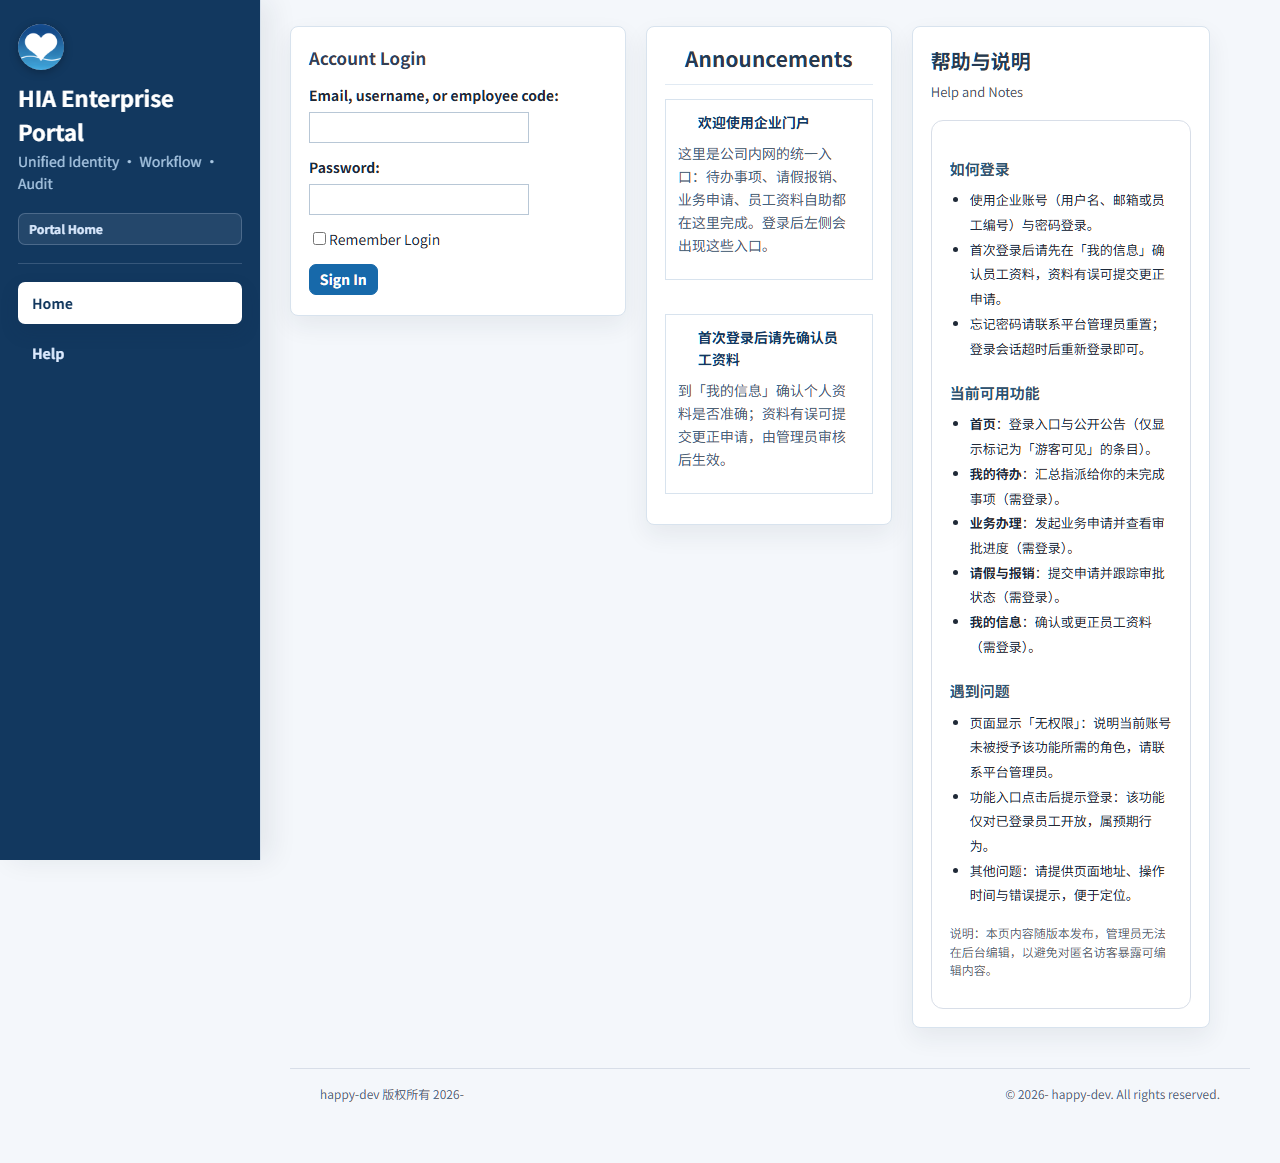
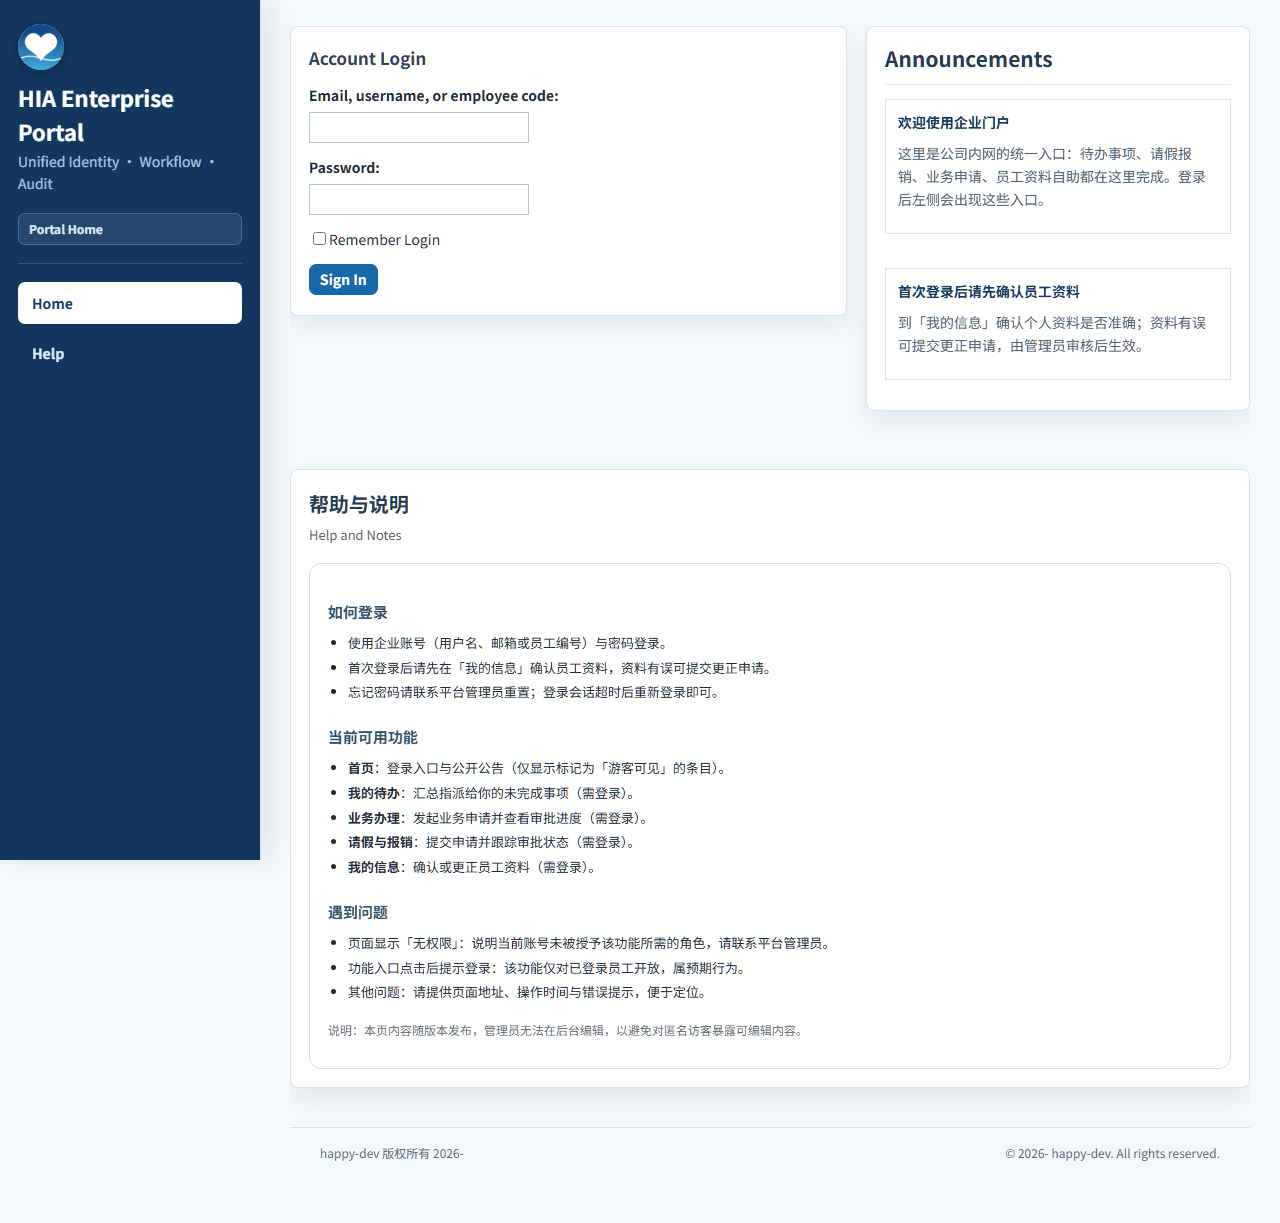
feat(ui): 首页布局改为「上二下一」——账户登录 + 门户公告并排第一行，帮助与说明通栏第二行
按产品草图重排首页内容区。原布局把三个窗格排成同一行（账户登录 260px｜门户公告 300px｜帮助与说明），公告与帮助两张卡内容都短，右侧长期留白、首页显得空；现改为第一行「账户登录 58% + 门户公告 40%」并排、第二行「帮助与说明」通栏。

实现口径：改动落在 6 套主题 CSS（Enterprise / StateClassic / Oa 的 Light+Dark）；IE9 安全（float + clear，不用 Grid/Flexbox——主题包约束明令禁止）；作用域限定 body.portal-tab-1（真实 TabId=1 的首页），其它页签通常只有一个模块，套用两列浮动会被挤到 40% 宽，故仍保持原三栏等高表格布局。

过程中两个真问题：① 主题把窗格写成 display:table-cell，表格单元格会忽略 float/width，只改宽度无效（表现为帮助卡仍 50% 宽），须用更高优先级的 .portal-dashboard-layout .portal-pane { display: block } 改回块级；② 主题自带 body.portal-theme-* .portal-dashboard-layout 的 border-spacing/margin-left，与覆盖块同特异性，只能靠同特异性 + 文档内更靠后取胜，故覆盖块追加在文件末尾。

验证：实站计算样式实测 dashboard-layout=block/960px、登录卡 float:left 557px、公告卡 float:right 384px、帮助卡 clear:both 960px 通栏；发布 0 失败；文档站 8 张首页截图在新布局下重拍（临时账号拍完即删，残留 0）；L0 54 项全绿。

diff --git a/src/Portal/App_Themes/EnterpriseDark/Default.css b/src/Portal/App_Themes/EnterpriseDark/Default.css
@@ -2003,3 +2003,36 @@ body.portal-theme-enterprisedark .portal-package-hia-moduleprobe { /* <lang><zh-
 
 .portal-footer-copy { float: left; }
 .portal-footer-note { float: right; }
+/* ===== 首页布局（上二下一）：账户登录 + 门户公告 并排第一行，帮助与说明 通栏第二行 =====
+   作用域：body.portal-tab-1（真实 TabId=1 的首页）。其它页签仍是原来的三栏等高表格布局 ——
+   那些页签通常只有一个模块，若套用两列浮动会被挤到 40% 宽。
+   实现约束：IE9 安全（float + clear；不用 Grid / Flexbox —— 见 Default/Default.css 的主题包约束）。
+   为什么改：原布局把三个窗格排成同一行（账户登录 260px｜门户公告 300px｜帮助与说明），
+   公告与帮助两张卡内容都短，右侧长期留白、首页显得空；改为「上二下一」后，
+   第一行两张卡并排占满宽度，第二行帮助与说明通栏，与产品草图一致。 */
+body.portal-tab-1 .portal-dashboard-layout {
+    display: block;
+    border-collapse: separate;
+    border-spacing: 0;
+    margin-left: 0;
+    overflow: hidden;
+}
+body.portal-tab-1 .portal-dashboard-layout .portal-pane {
+    display: block;
+    vertical-align: top;
+}
+body.portal-tab-1 .portal-dashboard-layout .portal-pane-left {
+    float: left;
+    width: 58%;
+    margin: 0 2% 18px 0;
+}
+body.portal-tab-1 .portal-dashboard-layout .portal-pane-content {
+    float: right;
+    width: 40%;
+    margin: 0 0 18px 0;
+}
+body.portal-tab-1 .portal-dashboard-layout .portal-pane-right {
+    clear: both;
+    width: 100%;
+    margin: 0;
+}

diff --git a/src/Portal/App_Themes/StateClassicDark/Default.css b/src/Portal/App_Themes/StateClassicDark/Default.css
@@ -2013,3 +2013,36 @@ body.portal-theme-stateclassicdark .portal-package-hia-moduleprobe { /* <lang><z
 
 .portal-footer-copy { float: left; }
 .portal-footer-note { float: right; }
+/* ===== 首页布局（上二下一）：账户登录 + 门户公告 并排第一行，帮助与说明 通栏第二行 =====
+   作用域：body.portal-tab-1（真实 TabId=1 的首页）。其它页签仍是原来的三栏等高表格布局 ——
+   那些页签通常只有一个模块，若套用两列浮动会被挤到 40% 宽。
+   实现约束：IE9 安全（float + clear；不用 Grid / Flexbox —— 见 Default/Default.css 的主题包约束）。
+   为什么改：原布局把三个窗格排成同一行（账户登录 260px｜门户公告 300px｜帮助与说明），
+   公告与帮助两张卡内容都短，右侧长期留白、首页显得空；改为「上二下一」后，
+   第一行两张卡并排占满宽度，第二行帮助与说明通栏，与产品草图一致。 */
+body.portal-tab-1 .portal-dashboard-layout {
+    display: block;
+    border-collapse: separate;
+    border-spacing: 0;
+    margin-left: 0;
+    overflow: hidden;
+}
+body.portal-tab-1 .portal-dashboard-layout .portal-pane {
+    display: block;
+    vertical-align: top;
+}
+body.portal-tab-1 .portal-dashboard-layout .portal-pane-left {
+    float: left;
+    width: 58%;
+    margin: 0 2% 18px 0;
+}
+body.portal-tab-1 .portal-dashboard-layout .portal-pane-content {
+    float: right;
+    width: 40%;
+    margin: 0 0 18px 0;
+}
+body.portal-tab-1 .portal-dashboard-layout .portal-pane-right {
+    clear: both;
+    width: 100%;
+    margin: 0;
+}

diff --git a/src/Portal/App_Themes/StateClassicLight/Default.css b/src/Portal/App_Themes/StateClassicLight/Default.css
@@ -2016,3 +2016,36 @@ body.portal-theme-stateclassiclight .employee-profile-correction-message {
 
 .portal-footer-copy { float: left; }
 .portal-footer-note { float: right; }
+/* ===== 首页布局（上二下一）：账户登录 + 门户公告 并排第一行，帮助与说明 通栏第二行 =====
+   作用域：body.portal-tab-1（真实 TabId=1 的首页）。其它页签仍是原来的三栏等高表格布局 ——
+   那些页签通常只有一个模块，若套用两列浮动会被挤到 40% 宽。
+   实现约束：IE9 安全（float + clear；不用 Grid / Flexbox —— 见 Default/Default.css 的主题包约束）。
+   为什么改：原布局把三个窗格排成同一行（账户登录 260px｜门户公告 300px｜帮助与说明），
+   公告与帮助两张卡内容都短，右侧长期留白、首页显得空；改为「上二下一」后，
+   第一行两张卡并排占满宽度，第二行帮助与说明通栏，与产品草图一致。 */
+body.portal-tab-1 .portal-dashboard-layout {
+    display: block;
+    border-collapse: separate;
+    border-spacing: 0;
+    margin-left: 0;
+    overflow: hidden;
+}
+body.portal-tab-1 .portal-dashboard-layout .portal-pane {
+    display: block;
+    vertical-align: top;
+}
+body.portal-tab-1 .portal-dashboard-layout .portal-pane-left {
+    float: left;
+    width: 58%;
+    margin: 0 2% 18px 0;
+}
+body.portal-tab-1 .portal-dashboard-layout .portal-pane-content {
+    float: right;
+    width: 40%;
+    margin: 0 0 18px 0;
+}
+body.portal-tab-1 .portal-dashboard-layout .portal-pane-right {
+    clear: both;
+    width: 100%;
+    margin: 0;
+}

diff --git a/src/Portal/App_Themes/EnterpriseLight/Default.css b/src/Portal/App_Themes/EnterpriseLight/Default.css
@@ -2006,3 +2006,36 @@ body.portal-theme-enterpriselight .employee-profile-correction-message {
 
 .portal-footer-copy { float: left; }
 .portal-footer-note { float: right; }
+/* ===== 首页布局（上二下一）：账户登录 + 门户公告 并排第一行，帮助与说明 通栏第二行 =====
+   作用域：body.portal-tab-1（真实 TabId=1 的首页）。其它页签仍是原来的三栏等高表格布局 ——
+   那些页签通常只有一个模块，若套用两列浮动会被挤到 40% 宽。
+   实现约束：IE9 安全（float + clear；不用 Grid / Flexbox —— 见 Default/Default.css 的主题包约束）。
+   为什么改：原布局把三个窗格排成同一行（账户登录 260px｜门户公告 300px｜帮助与说明），
+   公告与帮助两张卡内容都短，右侧长期留白、首页显得空；改为「上二下一」后，
+   第一行两张卡并排占满宽度，第二行帮助与说明通栏，与产品草图一致。 */
+body.portal-tab-1 .portal-dashboard-layout {
+    display: block;
+    border-collapse: separate;
+    border-spacing: 0;
+    margin-left: 0;
+    overflow: hidden;
+}
+body.portal-tab-1 .portal-dashboard-layout .portal-pane {
+    display: block;
+    vertical-align: top;
+}
+body.portal-tab-1 .portal-dashboard-layout .portal-pane-left {
+    float: left;
+    width: 58%;
+    margin: 0 2% 18px 0;
+}
+body.portal-tab-1 .portal-dashboard-layout .portal-pane-content {
+    float: right;
+    width: 40%;
+    margin: 0 0 18px 0;
+}
+body.portal-tab-1 .portal-dashboard-layout .portal-pane-right {
+    clear: both;
+    width: 100%;
+    margin: 0;
+}

diff --git a/src/Portal/App_Themes/OaLight/Default.css b/src/Portal/App_Themes/OaLight/Default.css
@@ -2006,3 +2006,36 @@ body.portal-theme-oalight .employee-profile-correction-message {
 
 .portal-footer-copy { float: left; }
 .portal-footer-note { float: right; }
+/* ===== 首页布局（上二下一）：账户登录 + 门户公告 并排第一行，帮助与说明 通栏第二行 =====
+   作用域：body.portal-tab-1（真实 TabId=1 的首页）。其它页签仍是原来的三栏等高表格布局 ——
+   那些页签通常只有一个模块，若套用两列浮动会被挤到 40% 宽。
+   实现约束：IE9 安全（float + clear；不用 Grid / Flexbox —— 见 Default/Default.css 的主题包约束）。
+   为什么改：原布局把三个窗格排成同一行（账户登录 260px｜门户公告 300px｜帮助与说明），
+   公告与帮助两张卡内容都短，右侧长期留白、首页显得空；改为「上二下一」后，
+   第一行两张卡并排占满宽度，第二行帮助与说明通栏，与产品草图一致。 */
+body.portal-tab-1 .portal-dashboard-layout {
+    display: block;
+    border-collapse: separate;
+    border-spacing: 0;
+    margin-left: 0;
+    overflow: hidden;
+}
+body.portal-tab-1 .portal-dashboard-layout .portal-pane {
+    display: block;
+    vertical-align: top;
+}
+body.portal-tab-1 .portal-dashboard-layout .portal-pane-left {
+    float: left;
+    width: 58%;
+    margin: 0 2% 18px 0;
+}
+body.portal-tab-1 .portal-dashboard-layout .portal-pane-content {
+    float: right;
+    width: 40%;
+    margin: 0 0 18px 0;
+}
+body.portal-tab-1 .portal-dashboard-layout .portal-pane-right {
+    clear: both;
+    width: 100%;
+    margin: 0;
+}

diff --git a/CHANGELOG.md b/CHANGELOG.md
@@ -6,6 +6,18 @@
 
 ## [Unreleased]
 
+**首页布局改为「上二下一」**：按产品草图把首页内容区从"三栏并排"改为"第一行账户登录 + 门户公告、第二行帮助与说明通栏"，并同步重拍文档站首页截图。
+
+### 变更
+
+- **首页布局（上二下一）**：原布局把三个窗格排成同一行（账户登录 260px｜门户公告 300px｜帮助与说明），公告与帮助两张卡内容都短，右侧长期留白、首页显得空。现改为第一行「账户登录（58%）+ 门户公告（40%）」并排、第二行「帮助与说明」通栏。改动落在 6 套主题 CSS（Enterprise / StateClassic / Oa 的 Light + Dark），实现口径 IE9 安全（`float` + `clear`，**不用 Grid / Flexbox** —— 主题包约束明令禁止），并且只影响首页：作用域限定 `body.portal-tab-1`（真实 TabId=1），其它页签通常只有一个模块，套用两列浮动会被挤到 40% 宽，故仍保持原三栏等高表格布局。
+- **文档站首页截图同步重拍**：8 张实拍图（中文 / 英文各 4 张）在新布局下重拍，临时账号拍完即删（残留 0）。
+
+### 验证
+
+- 实站计算样式实测：`.portal-dashboard-layout` = `display: block` / 960px；登录卡 `float: left` 557px（58%）；公告卡 `float: right` 384px（40%）；帮助卡 `clear: both` **960px 通栏**。
+- L0 54 项全绿；站点发布 0 失败。
+
 ## [v2.1.1] - 2026-10-29
 **品牌一致性与发布一致性收口**：把门户品牌统一为 **HIA Enterprise Portal**，并修掉两处"看起来做了、实际没生效"的机制问题。对应 `C-anp-P46`（W-anp-P259–W-anp-P263）。
 ### 变更
